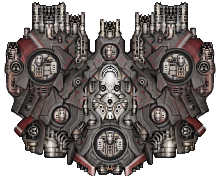
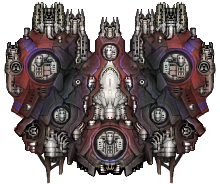
Dominator Phase Changes

diff --git a/src/neon/nsp/data/shipsystems/RomulanCloakStats.java b/src/neon/nsp/data/shipsystems/RomulanCloakStats.java
@@ -12,6 +12,7 @@ import com.fs.starfarer.api.plugins.ShipSystemStatsScript;
 import data.scripts.util.MagicRender;
 import org.dark.shaders.distortion.DistortionShader;
 import org.dark.shaders.distortion.RippleDistortion;
+import org.dark.shaders.lens.LensShader;
 import org.dark.shaders.distortion.WaveDistortion;
 import org.dark.shaders.light.LightShader;
 import org.dark.shaders.light.StandardLight;
